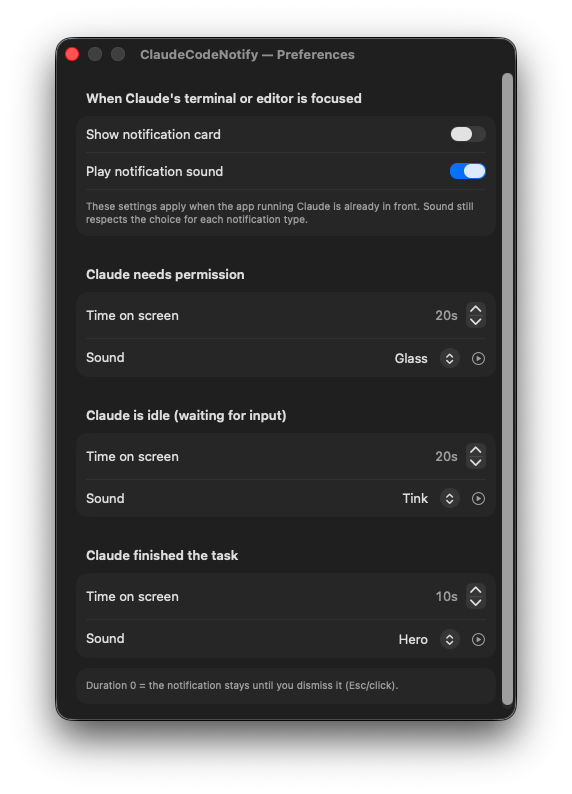
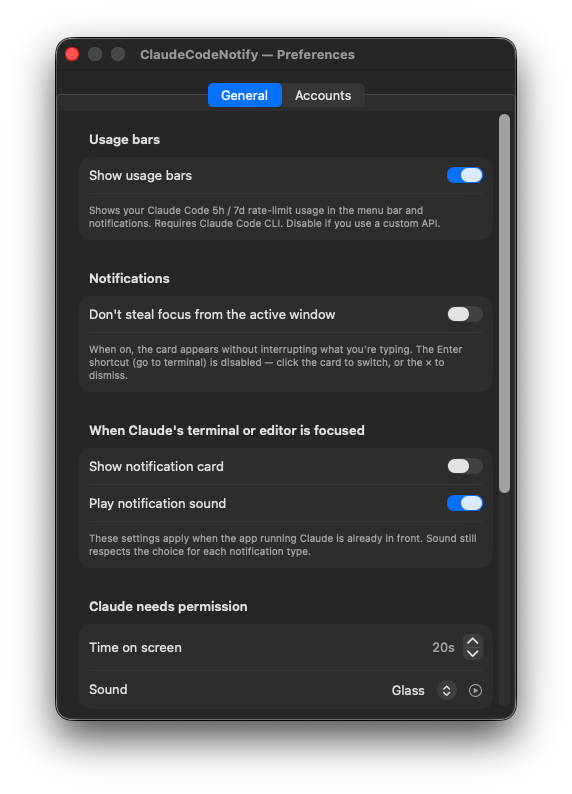
Detect granted keychain access, add bump targets, polish repo (1.5.0)
- Welcome screen now reflects already-granted keychain access via a
  persisted `keychainGranted` flag (written by UsageFetcher on every
  keychain read) instead of showing the "Grant keychain access" step
  on every launch. The badge no longer flips on network failures.
- Add `make bump_patch/minor/major` targets; bump version to 1.5.0.
- Add MIT LICENSE.
- README: dynamic stars/release/downloads/license badges, a License
  section, and contextual menu/welcome/preferences screenshots
  (refreshed to show the keychain step completed).

diff --git a/Sources/ClaudeCodeNotify/Usage/UsageFetcher.swift b/Sources/ClaudeCodeNotify/Usage/UsageFetcher.swift
@@ -11,7 +11,11 @@ enum UsageFetcher {
     private static let credentialStore: CredentialStoring = SecurityToolCredentialStore()
 
     private static let apiURL = URL(string: "https://api.anthropic.com/v1/messages")!
-    private static let claudeCandidates = ["/opt/homebrew/bin/claude", "/usr/local/bin/claude", "claude"]
+    private static let claudeCandidates = [
+        "\(NSHomeDirectory())/.local/bin/claude",
+        "/opt/homebrew/bin/claude",
+        "/usr/local/bin/claude",
+    ]
     private static let refreshCooldown: TimeInterval = 5 * 60
     private static var lastRefreshAttempt: Date = .distantPast
 
@@ -25,6 +29,14 @@ enum UsageFetcher {
     static var keychainDenied: Bool {
         get { UserDefaults.standard.bool(forKey: "keychainDenied") }
         set { UserDefaults.standard.set(newValue, forKey: "keychainDenied") }
+    }
+
+    /// Whether a keychain read has ever succeeded. Persisted so the UI (welcome
+    /// screen, preferences) can reflect already-granted access across launches,
+    /// instead of asking again every time. Updated by `readToken()` on every read.
+    static var keychainGranted: Bool {
+        get { UserDefaults.standard.bool(forKey: "keychainGranted") }
+        set { UserDefaults.standard.set(newValue, forKey: "keychainGranted") }
     }
 
     static func resetKeychainPermission() {
@@ -76,12 +88,18 @@ enum UsageFetcher {
         )
     }
 
+    /// First `claude` candidate that exists and is executable on this machine.
+    private static func resolveClaude() -> String? {
+        claudeCandidates.first { FileManager.default.isExecutableFile(atPath: $0) }
+    }
+
     private static func attemptCliRefresh() async -> Bool {
         guard Date().timeIntervalSince(lastRefreshAttempt) > refreshCooldown else { return false }
+        guard let claudePath = resolveClaude() else { return false }
         lastRefreshAttempt = Date()
         return await withCheckedContinuation { continuation in
             let p = Process()
-            p.executableURL = URL(fileURLWithPath: claudeCandidates[0])
+            p.executableURL = URL(fileURLWithPath: claudePath)
             p.arguments = ["-p", "hi", "--max-budget-usd", "0.01"]
             p.standardInput = FileHandle.nullDevice
             p.standardOutput = FileHandle.nullDevice
@@ -100,9 +118,13 @@ enum UsageFetcher {
     private static func readToken() -> String? {
         switch credentialStore.readClaudeCredentials() {
         case .success(let blob):
+            // Access works — remember it and clear any stale denial.
+            keychainGranted = true
+            keychainDenied = false
             return extractAccessToken(blob)
         case .denied:
             keychainDenied = true
+            keychainGranted = false
             return nil
         case .notFound, .failure:
             // Not logged in via CLI / custom API, or transient error.

diff --git a/Sources/ClaudeCodeNotify/UI/OnboardingView.swift b/Sources/ClaudeCodeNotify/UI/OnboardingView.swift
@@ -8,7 +8,7 @@ struct OnboardingView: View {
 
     @State private var connected = HookInstaller.isInstalled
     @State private var loginEnabled = LoginItem.isEnabled
-    @State private var keychainGranted = false
+    @AppStorage("keychainGranted") private var keychainGranted: Bool = false
     @AppStorage("keychainDenied") private var keychainDenied: Bool = false
 
     // Sequential confirmation prompts shown when Get Started is tapped
@@ -49,8 +49,10 @@ struct OnboardingView: View {
         .alert("Allow keychain access?", isPresented: $showKeychainPrompt) {
             Button("Allow") {
                 Task {
-                    let granted = await UsageFetcher.fetch() != nil
-                    keychainGranted = granted
+                    // Result is driven by the keychain read inside fetch(), which
+                    // updates `keychainGranted` directly — don't gate it on the
+                    // network round-trip succeeding.
+                    _ = await UsageFetcher.fetch()
                     onClose()
                 }
             }
@@ -187,8 +189,10 @@ struct OnboardingView: View {
                                     keychainDenied = false
                                 }
                                 Task {
-                                    let granted = await UsageFetcher.fetch() != nil
-                                    keychainGranted = granted
+                                    // `keychainGranted` is updated by the keychain
+                                    // read inside fetch(), so the badge flips on its
+                                    // own when access is allowed.
+                                    _ = await UsageFetcher.fetch()
                                 }
                             } label: {
                                 Label(

diff --git a/README.md b/README.md
@@ -10,6 +10,13 @@
 </p>
 
 <p align="center">
+  <a href="https://github.com/narlei/claudecodenotify/stargazers"><img src="https://img.shields.io/github/stars/narlei/claudecodenotify?style=flat&color=D9755E&label=stars" alt="GitHub stars"></a>
+  <a href="https://github.com/narlei/claudecodenotify/releases/latest"><img src="https://img.shields.io/github/v/release/narlei/claudecodenotify?color=262624&label=release" alt="Latest release"></a>
+  <a href="https://github.com/narlei/claudecodenotify/releases"><img src="https://img.shields.io/github/downloads/narlei/claudecodenotify/total?color=262624&label=downloads" alt="Total downloads"></a>
+  <a href="LICENSE"><img src="https://img.shields.io/github/license/narlei/claudecodenotify?color=262624" alt="License: MIT"></a>
+</p>
+
+<p align="center">
   <img src="https://img.shields.io/badge/macOS-12%2B-262624" alt="macOS 12+">
   <img src="https://img.shields.io/badge/Universal-Intel%20%2B%20Apple%20Silicon-262624" alt="Universal (Intel + Apple Silicon)">
   <a href="https://claudecodenotify.narlei.com"><img src="https://img.shields.io/badge/website-claudecodenotify.narlei.com-D9755E" alt="Website"></a>
@@ -36,6 +43,7 @@ A macOS **menu bar** app that pops a **floating notification in the center of yo
 - [Build (development)](#build-development)
 - [Distribution](#distribution)
 - [Support](#support)
+- [License](#license)
 
 ## How it works
 
@@ -63,6 +71,10 @@ When shown, the notification appears centered at the top, over anything (includi
 - **👥 Multi-account profiles** — use a personal and a work Claude account on the same machine and switch instantly, from the menu or with a **global hotkey** per profile. The active profile's emoji shows next to the menu bar icon, a confirmation card pops with that account's **fresh usage bars**, and inactive profiles keep their last-seen usage in the menu. Set it up in **Preferences → Accounts**: capture the account you're logged into, run `claude /login` with the other one, capture it too — done. Credentials are snapshotted in your macOS Keychain (never on disk), and switching never logs anyone out. Single-account users see no change at all.
 - **🔒 Local & private** — a tiny server listening only on `127.0.0.1`, validated with a token. Nothing leaves your machine.
 - **🚀 Open at Login** — via `SMAppService` on macOS 13+, a LaunchAgent on macOS 12.
+
+<p align="center">
+  <img src="website/assets/menu.png" width="320" alt="The ClaudeCodeNotify menu bar dropdown: a green connected status, live 5-hour (24%) and weekly (55%) usage bars with reset countdowns, and quick actions — Disconnect, Welcome, Preferences, Check for Updates, Open at Login, and Star on GitHub">
+</p>
 
 ## Installation
 
@@ -92,7 +104,17 @@ To stop it: **Disconnect Claude Code** in the menu.
 
 On first launch a **welcome screen** explains how it works and lets you **Connect Claude Code**, toggle **Open at Login**, and open **Preferences** right away. Reopen it anytime from the menu (**Welcome…**).
 
+<p align="center">
+  <img src="website/assets/onboarding.png" width="720" alt="The welcome screen: a 3×2 grid of feature cards and a Next Steps row showing Claude Code connected, Keychain access granted, and Open at login all checked off">
+</p>
+
 Everything lives in the **menu bar** (the bell icon). The menu shows a **green/red dot** for the connection status, plus Connect/Disconnect, Welcome, Preferences, Check for Updates, and Open at Login.
+
+Fine-tune everything in **Preferences** — toggle the usage bars, set focus behavior, and pick a per-type duration and sound:
+
+<p align="center">
+  <img src="website/assets/preferences.png" width="440" alt="The Preferences General tab: toggles for usage bars and focus behavior, plus per-type notification duration and sound settings">
+</p>
 
 > The app generates a token on first run and writes `bridge.sh` to `~/.ccnotify/`; its store (token, port, preferences) lives in `~/Library/Application Support/ClaudeCodeNotify/`. Everything is local and only listens on `127.0.0.1`.
 
@@ -125,6 +147,12 @@ If ClaudeCodeNotify saves you trips to the terminal, consider buying me a coffee
 - **Pix:** `[email redacted]`
 
 You can also support it from the app: menu bar → **Support ClaudeCodeNotify ☕**.
+
+If it earns a spot in your menu bar, a ⭐ on the repo helps others find it.
+
+## License
+
+Released under the [MIT License](LICENSE) © Narlei Moreira.
 
 ---
 